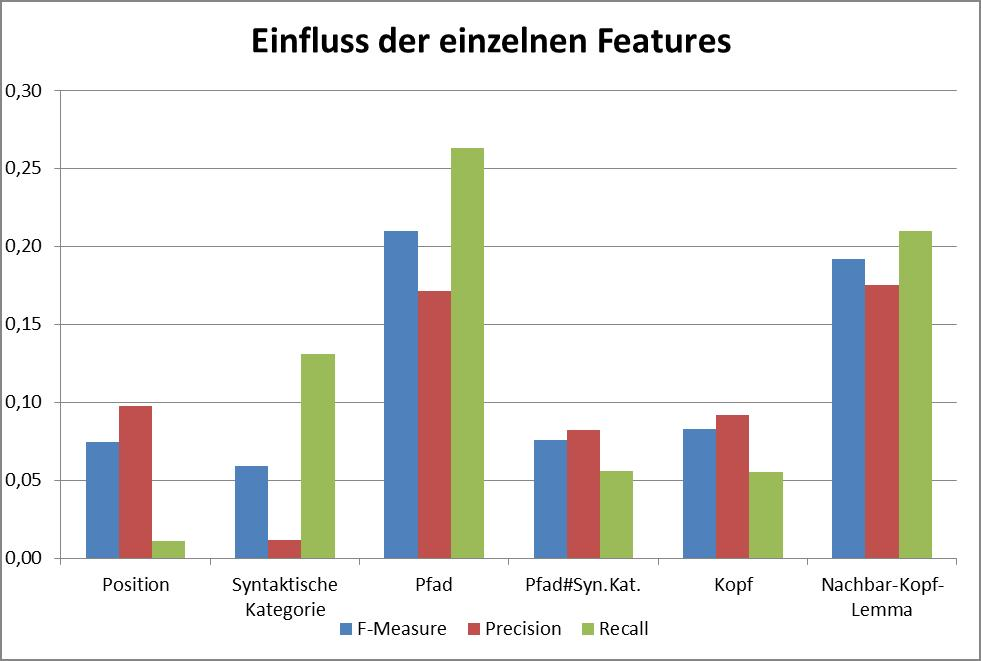
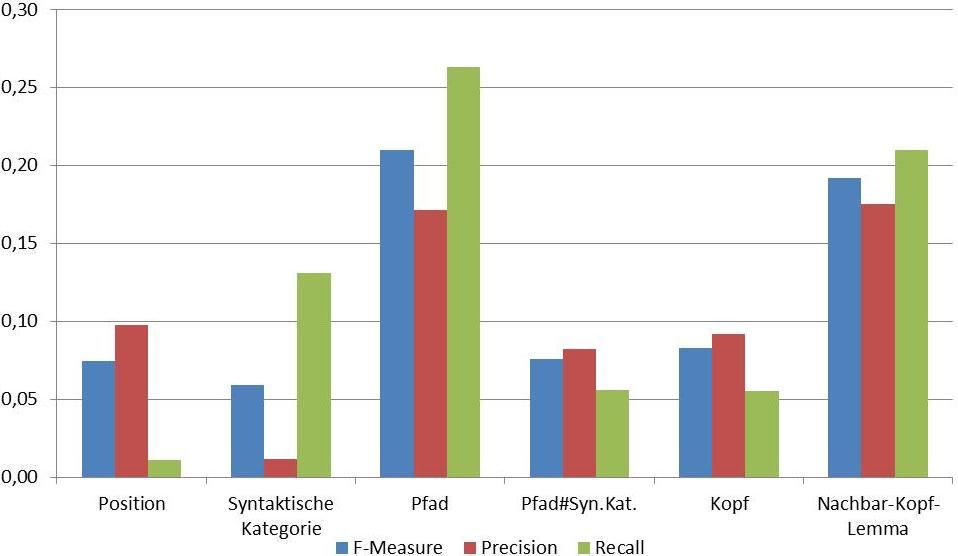
Typo + Bild "Feature Impact" (Rahmen + Überschrift entfernt) angepasst

diff --git a/src/latex/seminararbeit/seminararbeit.tex b/src/latex/seminararbeit/seminararbeit.tex
@@ -322,7 +322,7 @@ Die Ergebnisse der 5-fach Kreuzvalidierung sind in Abbildung \ref{evalKreuzvalid
 		\begin{figure}[tb!]
 			\centering
 			\includegraphics[scale=0.5]{images/ergebnisseKreuzvalidierung.png}
-			\caption{Ergebniss der 5-fach Kreuzvalidierung des SRL-Klassifikators bezogen auf die drei Kenngrößen. Dargestellt ist zudem die Standabweichung innerhalb der Kreuzvaliederung.}
+			\caption{Ergebnis der 5-fach Kreuzvalidierung des SRL-Klassifikators bezogen auf die drei Kenngrößen. Dargestellt ist zudem die Standabweichung innerhalb der Kreuzvaliederung.}
 			\label{evalKreuzvalidierung}
 		\end{figure}
 
@@ -392,6 +392,5 @@ Um später auch mit ungesehenen Targets arbeiten zu können, wäre eine semantis
 \newpage
 \bibliography{biblio}
 \bibliographystyle{natdin}
-
 
 \end{document}
